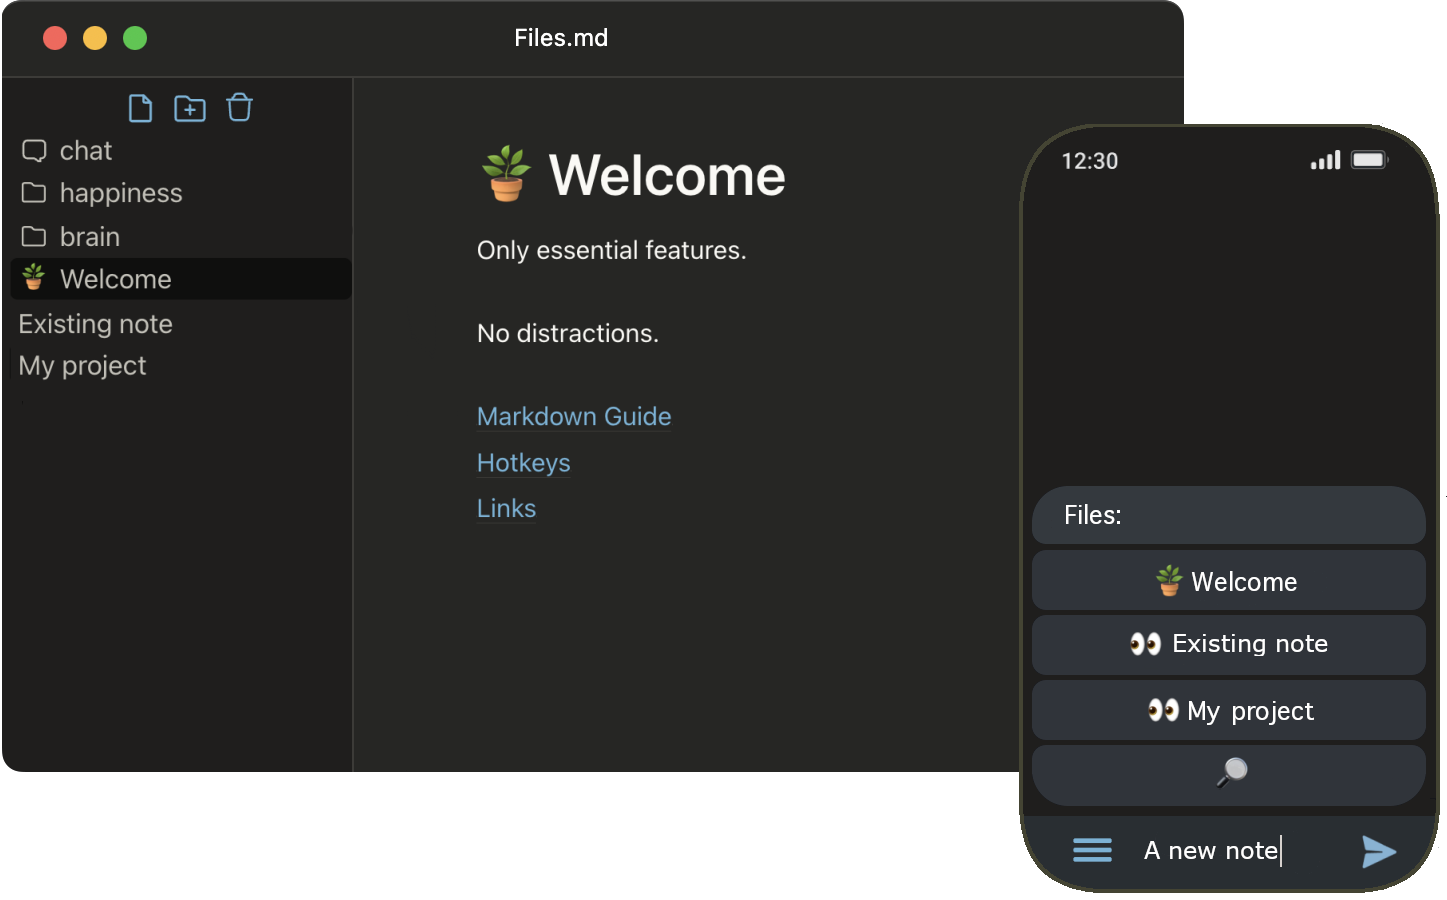
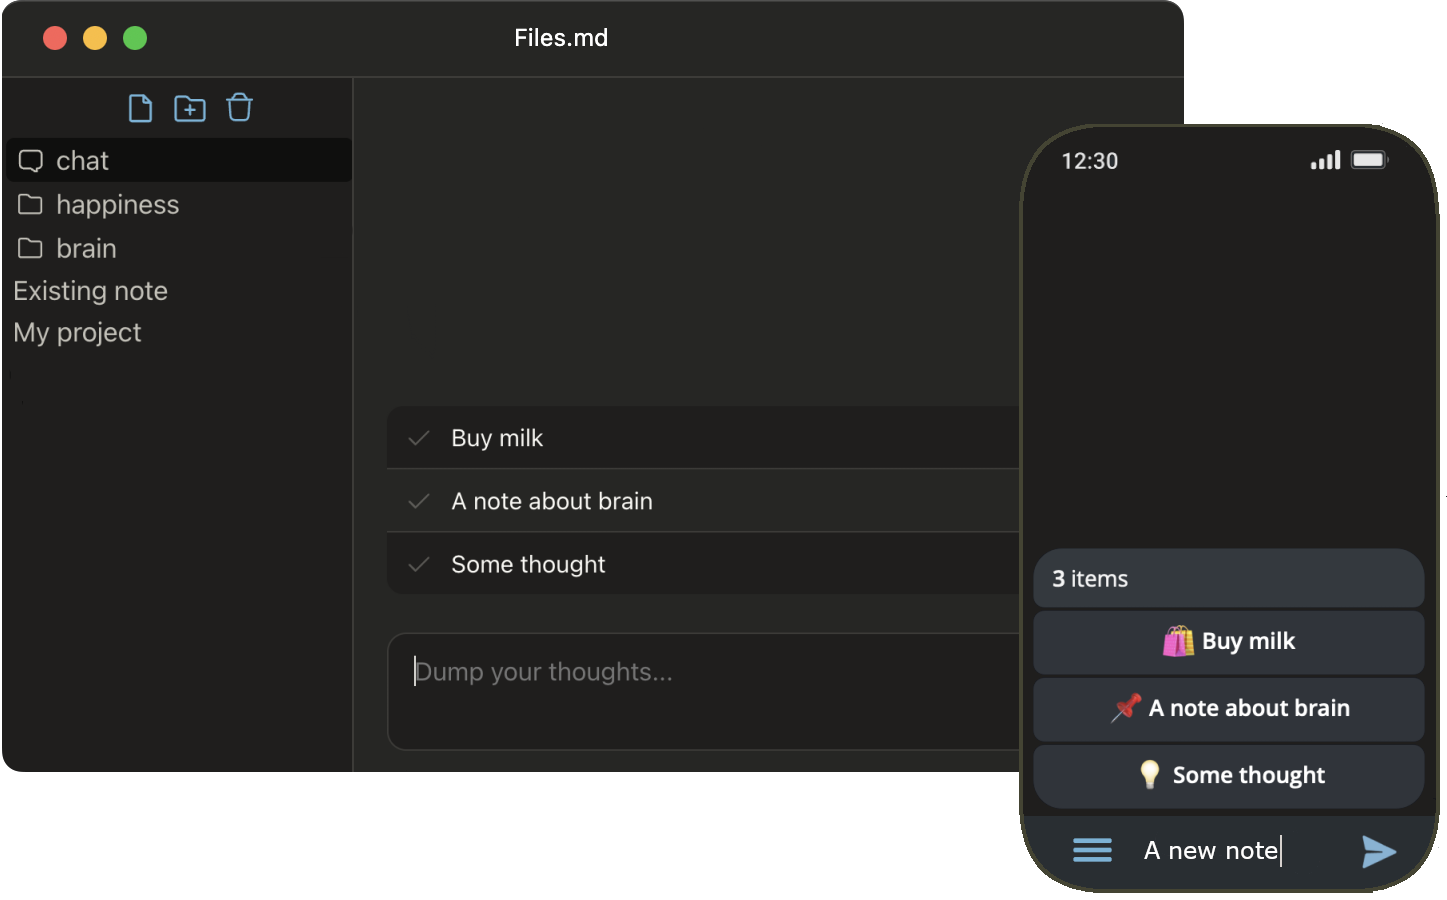
add dbg for auth

diff --git a/server/sync/tokens.go b/server/sync/tokens.go
@@ -6,10 +6,12 @@ import (
 	"crypto/sha256"
 	"encoding/hex"
 	"encoding/json"
+	"fmt"
 	"log"
 	"log/slog"
 	"net"
 	"net/http"
+	"os"
 	"strconv"
 	"strings"
 	"sync"
@@ -36,6 +38,97 @@ var (
 
 var blockedIPs = make(map[string]time.Time)
 var blockedIPsMutex sync.RWMutex
+
+// Debug instrumentation: append every auth failure (invalid one-time token
+// swap, invalid permanent token, IP-blocked refusals) to /tmp/auth so we can
+// diagnose the "invalid token after server runs a while" report.
+var (
+	authDbgFile *os.File
+	authDbgMu   sync.Mutex
+)
+
+func init() {
+	f, err := os.OpenFile("/tmp/auth", os.O_APPEND|os.O_CREATE|os.O_WRONLY, 0644)
+	if err != nil {
+		slog.Error("auth debug: cannot open /tmp/auth", "error", err)
+		return
+	}
+	authDbgFile = f
+}
+
+func tokenFingerprint(t string) string {
+	if t == "" {
+		return "<empty>"
+	}
+	prefix := t
+	if len(prefix) > 8 {
+		prefix = prefix[:8]
+	}
+	suffix := ""
+	if len(t) > 12 {
+		suffix = t[len(t)-4:]
+	}
+	h := sha256.Sum256([]byte(t))
+	return fmt.Sprintf("len=%d prefix=%s suffix=%s sha256_8=%s", len(t), prefix, suffix, hex.EncodeToString(h[:])[:8])
+}
+
+func logAuthFailure(reason string, r *http.Request, extras map[string]any) {
+	if authDbgFile == nil {
+		return
+	}
+
+	cookieVal := ""
+	cookiePresent := false
+	if c, err := r.Cookie(AuthCookieName); err == nil {
+		cookieVal = c.Value
+		cookiePresent = true
+	}
+	authHeader := r.Header.Get("Authorization")
+
+	mu.RLock()
+	onetimeMapSize := len(oneTimeTokens)
+	mu.RUnlock()
+
+	blockedIPsMutex.RLock()
+	blockedMapSize := len(blockedIPs)
+	blockedUntil, ipBlocked := blockedIPs[getIPFromRemoteAddr(r.RemoteAddr)]
+	blockedIPsMutex.RUnlock()
+
+	parts := []string{
+		"ts=" + time.Now().Format(time.RFC3339Nano),
+		"reason=" + reason,
+		"method=" + r.Method,
+		"path=" + r.URL.Path,
+		"remote=" + r.RemoteAddr,
+		"ip=" + getIPFromRemoteAddr(r.RemoteAddr),
+		"ua=" + strconv.Quote(r.UserAgent()),
+		"x_forwarded_for=" + strconv.Quote(r.Header.Get("X-Forwarded-For")),
+		"x_real_ip=" + strconv.Quote(r.Header.Get("X-Real-IP")),
+		"cf_connecting_ip=" + strconv.Quote(r.Header.Get("CF-Connecting-IP")),
+		"referer=" + strconv.Quote(r.Referer()),
+		"cookie_present=" + strconv.FormatBool(cookiePresent),
+		"cookie=" + tokenFingerprint(cookieVal),
+		"auth_header_present=" + strconv.FormatBool(authHeader != ""),
+		"auth_header=" + tokenFingerprint(authHeader),
+		"onetime_map_size=" + strconv.Itoa(onetimeMapSize),
+		"blocked_map_size=" + strconv.Itoa(blockedMapSize),
+		"ip_currently_blocked=" + strconv.FormatBool(ipBlocked && time.Now().Before(blockedUntil)),
+	}
+	if ipBlocked {
+		parts = append(parts,
+			"ip_block_until="+blockedUntil.Format(time.RFC3339Nano),
+			"ip_block_remaining="+time.Until(blockedUntil).String(),
+		)
+	}
+	for k, v := range extras {
+		parts = append(parts, fmt.Sprintf("%s=%v", k, v))
+	}
+
+	line := strings.Join(parts, " ") + "\n"
+	authDbgMu.Lock()
+	defer authDbgMu.Unlock()
+	authDbgFile.WriteString(line)
+}
 
 type oneTimeToken struct {
 	userID    int64
@@ -102,6 +195,7 @@ func IssueToken(w http.ResponseWriter, r *http.Request) {
 
 	permanentToken, ok := issueNewPermanentToken(r)
 	if !ok {
+		// issueNewPermanentToken already logged the precise sub-reason.
 		http.Error(w, "Invalid or expired token", http.StatusUnauthorized)
 		return
 	}
@@ -127,6 +221,11 @@ func tokenMiddleware(next http.HandlerFunc) http.HandlerFunc {
 		blockedUntil, isBlocked := blockedIPs[ip]
 		blockedIPsMutex.RUnlock()
 		if isBlocked && time.Now().Before(blockedUntil) {
+			logAuthFailure("middleware_ip_blocked_429", r, map[string]any{
+				"http_status":     429,
+				"block_until":     blockedUntil.Format(time.RFC3339Nano),
+				"block_remaining": time.Until(blockedUntil).String(),
+			})
 			w.WriteHeader(http.StatusTooManyRequests)
 			return
 		}
@@ -147,6 +246,14 @@ func tokenMiddleware(next http.HandlerFunc) http.HandlerFunc {
 			blockedIPsMutex.Lock()
 			blockedIPs[ip] = time.Now().Add(BanForInvalidToken)
 			blockedIPsMutex.Unlock()
+
+			logAuthFailure("middleware_invalid_token_401", r, map[string]any{
+				"http_status":      401,
+				"token_source":     map[bool]string{true: "cookie", false: "auth_header"}[fromCookie],
+				"token_empty":      token == "",
+				"new_block_until":  time.Now().Add(BanForInvalidToken).Format(time.RFC3339Nano),
+				"new_block_for":    BanForInvalidToken.String(),
+			})
 
 			http.Error(w, "Unauthorized", http.StatusUnauthorized)
 			return
@@ -171,6 +278,11 @@ func issueNewPermanentToken(r *http.Request) (string, bool) {
 	blockedUntil, isBlocked := blockedIPs[ip]
 	blockedIPsMutex.RUnlock()
 	if isBlocked && time.Now().Before(blockedUntil) {
+		logAuthFailure("onetime_swap_ip_blocked_401", r, map[string]any{
+			"http_status":     401,
+			"block_until":     blockedUntil.Format(time.RFC3339Nano),
+			"block_remaining": time.Until(blockedUntil).String(),
+		})
 		return "", false
 	}
 
@@ -180,18 +292,62 @@ func issueNewPermanentToken(r *http.Request) (string, bool) {
 		OneTimeToken string `json:"oneTimeToken"`
 	}
 	if err := json.NewDecoder(r.Body).Decode(&req); err != nil {
+		logAuthFailure("onetime_swap_body_decode_error_401", r, map[string]any{
+			"http_status": 401,
+			"decode_err":  err.Error(),
+		})
 		return "", false
 	}
 
 	mu.Lock()
 	data, exists := oneTimeTokens[req.OneTimeToken]
 	if !exists || time.Now().After(data.expiresAt) {
+		// Snapshot a few one-time tokens for cross-referencing — fingerprints
+		// only, never the raw token, so we don't leak still-live secrets.
+		samplePrefixes := make([]string, 0, 5)
+		now := time.Now()
+		var liveCount, expiredCount int
+		for tok, d := range oneTimeTokens {
+			if now.After(d.expiresAt) {
+				expiredCount++
+			} else {
+				liveCount++
+			}
+			if len(samplePrefixes) < 5 {
+				prefix := tok
+				if len(prefix) > 8 {
+					prefix = prefix[:8]
+				}
+				samplePrefixes = append(samplePrefixes,
+					fmt.Sprintf("%s(uid=%d,exp=%s)", prefix, d.userID, d.expiresAt.Format(time.RFC3339)))
+			}
+		}
 		mu.Unlock()
 
 		// Block IP for 1 minute if token is invalid or expired
 		blockedIPsMutex.Lock()
 		blockedIPs[ip] = time.Now().Add(1 * time.Minute)
 		blockedIPsMutex.Unlock()
+
+		reason := "onetime_token_not_in_map_401"
+		if exists {
+			reason = "onetime_token_expired_401"
+		}
+		extras := map[string]any{
+			"http_status":          401,
+			"submitted_token":      tokenFingerprint(req.OneTimeToken),
+			"submitted_token_blank": req.OneTimeToken == "",
+			"map_live_count":       liveCount,
+			"map_expired_count":    expiredCount,
+			"map_sample":           strings.Join(samplePrefixes, ","),
+			"new_block_for":        "1m",
+		}
+		if exists {
+			extras["matched_user_id"] = data.userID
+			extras["matched_expires_at"] = data.expiresAt.Format(time.RFC3339Nano)
+			extras["matched_age"] = time.Since(data.expiresAt.Add(-OneTimeTokenExpiration)).String()
+		}
+		logAuthFailure(reason, r, extras)
 
 		return "", false
 	}
@@ -202,10 +358,20 @@ func issueNewPermanentToken(r *http.Request) (string, bool) {
 	tokens, err := fs.NewFS(config.ServerCfg.TokensDir, afero.NewOsFs())
 	if err != nil {
 		slog.Error("Failed to create file system for tokens", "error", err)
+		logAuthFailure("onetime_swap_fs_init_error_401", r, map[string]any{
+			"http_status": 401,
+			"err":         err.Error(),
+			"user_id":     data.userID,
+		})
 		return "", false
 	}
 	err = tokens.Write(fs.DirUserRoot, hashToken(token), strconv.FormatInt(data.userID, 10))
 	if err != nil {
+		logAuthFailure("onetime_swap_write_error_401", r, map[string]any{
+			"http_status": 401,
+			"err":         err.Error(),
+			"user_id":     data.userID,
+		})
 		return "", false
 	}
 